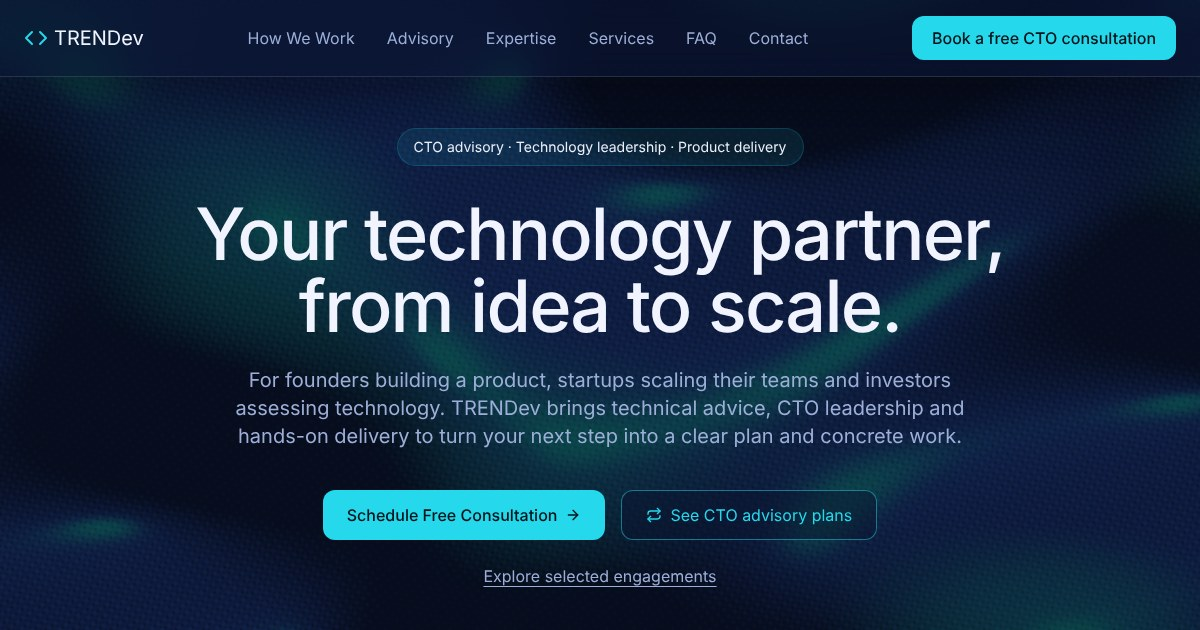
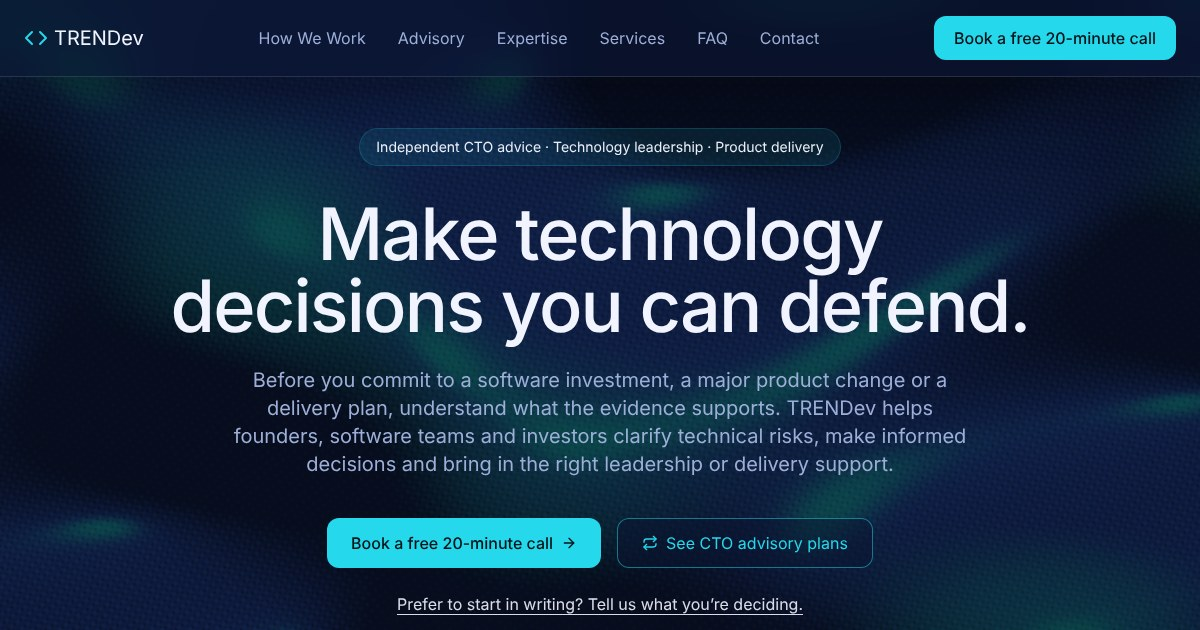
Homepage positioning around decisions + written first contact (Technology Oversight) (#66)
Closes #65.

- Hero, section intros, audience cards and #contact lead with defensible technology decisions for founders, software teams and investors (issue copy A-F).
- Investor card covers engineering-team maturity as observable capabilities, never individual ratings.
- GENERAL_ENQUIRY_EMAIL: a no-meeting written first contact as text links in the hero and #contact, distinct from the delivery enquiry.
- Offers, prices, Terms, service descriptions and checkout unchanged; guards in check-positioning.mjs; og-image regenerated; CLAUDE.md updated.

Claude-Session: https://claude.ai/code/session_018Dnk2oWdFV11BbDxnxuwK2

diff --git a/src/data/positioning.ts b/src/data/positioning.ts
@@ -1,23 +1,27 @@
+import { CONTACT_ADDRESS } from "@/data/content";
+
 /** Buyer-facing copy. Contractual service definitions remain unchanged. */
 export const positioning = {
   hero: {
-    eyebrow: "CTO advisory · Technology leadership · Product delivery",
-    title: "Your technology partner, from idea to scale.",
+    eyebrow: "Independent CTO advice · Technology leadership · Product delivery",
+    title: "Make technology decisions you can defend.",
     description:
-      "For founders building a product, startups scaling their teams and investors assessing technology. TRENDev brings technical advice, CTO leadership and hands-on delivery to turn your next step into a clear plan and concrete work.",
+      "Before you commit to a software investment, a major product change or a delivery plan, understand what the evidence supports. TRENDev helps founders, software teams and investors clarify technical risks, make informed decisions and bring in the right leadership or delivery support.",
     proof:
-      "Engineering and CTO expertise spanning two-squad teams and organisations of approximately 90 engineers.",
+      "Senior CTO and engineering experience, from teams of 10 engineers to organisations of approximately 90 engineers.",
+    /** A plain text link, never a third button competing with the two CTAs. */
+    writtenContactLink: "Prefer to start in writing? Tell us what you’re deciding.",
     workLink: "Explore selected engagements",
   },
   challenges: {
-    title: "Technical support for your next step",
+    title: "Clarity before the next commitment.",
     description:
-      "Launch a product, scale an engineering organisation or assess a technology investment. We help you understand the choices, make a plan and bring in the expertise to move forward.",
+      "Whether you’re building a product, backing a software company or growing an engineering organisation, important technical choices affect budget, delivery and future options. We help you examine the evidence, understand the trade-offs and identify a sensible next step.",
   },
   delivery: {
-    title: "Concrete work behind the expertise",
+    title: "Experience behind the recommendations.",
     description:
-      "Selected engagements illustrating the experience brought to TRENDev missions. Real constraints, specific work and documented scope — with client identities kept confidential.",
+      "Selected engagements show the work behind TRENDev’s judgment: comparing architecture options, structuring engineering teams and navigating delivery constraints. Each example describes a real scope of work, with client identities kept confidential.",
     modelTitle: "Senior leadership. A delivery team shaped around the mission.",
     modelDescription:
       "TRENDev combines a senior technical lead with trusted delivery partners who have worked together repeatedly. We agree the team, responsibilities and delivery milestones around your needs, alongside your own engineers.",
@@ -35,7 +39,7 @@ export const positioning = {
   offers: {
     title: "Four ways to work with us",
     description:
-      "Resolve one technical decision, get recurring advice, or bring in CTO leadership. Each offer has a clear scope, and you can start with any of them.",
+      "One decision to examine, recurring CTO advice, or leadership for a defined technology challenge. Choose the engagement that matches the responsibility you need. No bigger programme is required just to get started.",
     missionsTitle: "Typical scoped missions",
     compareLink: "Compare all four offers",
   },
@@ -50,9 +54,11 @@ export const positioning = {
       "Build a product, modernise a platform or bring a new capability into production. We combine architecture, cloud, AI and software engineering around the work your project needs.",
   },
   cta: {
-    title: "Let’s talk about your next step",
+    title: "What technology decision are you facing?",
     description:
-      "An agency proposal to assess, a migration to unblock, a CTO transition or a technical review before an investment? Start with a free 20-minute call. We clarify your situation, the support and responsibility you need, and whether there is a useful next step. No preparation or commitment required. This is an introductory conversation, not a technical audit. You can also email a project brief directly.",
+      "A supplier proposal to assess, a platform change to plan, a CTO transition or a technical question around an investment? Tell us what you’re trying to decide. Start with a free 20-minute introductory call or write to us directly. No preparation or confidential documents are needed. This is an introductory exchange, not a free technical audit.",
+    /** General written first contact; distinct from the delivery enquiry. */
+    writtenContactLabel: `Prefer email? Write to ${CONTACT_ADDRESS}`,
   },
   advisory: {
     title: "CTO advice and leadership for your business",

diff --git a/src/data/content.ts b/src/data/content.ts
@@ -255,19 +255,19 @@ export const whyChoose: WhyChooseItem[] = [
     icon: Rocket,
     title: "For founders",
     description:
-      "Turn a project into a product. Get support with technical feasibility, architecture, an MVP roadmap and implementation — whether you have an engineering team or are putting one together.",
+      "Bringing a product to market or assessing a supplier’s proposal? Get experienced CTO guidance on feasibility, priorities, architecture and what needs to be verified before you commit. When implementation is needed, TRENDev can help scope and deliver the work separately.",
   },
   {
     icon: Users,
     title: "For growing startups",
     description:
-      "Keep product delivery moving as customers and teams grow. Strengthen your architecture, structure your engineering organisation and bring in leadership or delivery capacity for the next stage.",
+      "Keep architecture, engineering capacity and product commitments aligned as you grow. Challenge roadmap assumptions, clarify ownership and bring in senior CTO advice or operational leadership when the next stage requires it.",
   },
   {
     icon: Compass,
     title: "For investors",
     description:
-      "Get a clear technical view before an investment or during portfolio support. Assess the product, architecture, engineering organisation and delivery risks through technical due diligence, then define practical priorities with the founders.",
+      "Before an investment or while supporting a portfolio company, get an independent technical perspective on the platform, delivery commitments and key dependencies, and on the engineering team’s maturity: role coverage, reliance on key people and how technical decisions are reviewed. Understand what the evidence shows, what remains uncertain and which decisions need attention.",
   },
 ];
 
@@ -535,5 +535,12 @@ export const CONTACT_ADDRESS = "contact@trendev.fr";
 /** Prefilled delivery-project mailto: never routed to subscription checkout. */
 export const DELIVERY_ENQUIRY_EMAIL =
   `mailto:${CONTACT_ADDRESS}?subject=Delivery%20project%20enquiry%20from%20TRENDev%20Website`;
+/**
+ * General written first contact (issue #65): no meeting required, and never a
+ * delivery-only subject. The body is a prompt only; it asks for no documents.
+ */
+export const GENERAL_ENQUIRY_EMAIL =
+  `mailto:${CONTACT_ADDRESS}?subject=${encodeURIComponent("Technology decision or project enquiry")}` +
+  `&body=${encodeURIComponent("What decision or project are you facing, and what would help you move forward?\n\n")}`;
 export const GITHUB_URL = "https://github.com/trendev";
 export const MEDIUM_URL = "https://medium.com/tales-of-a-cto";

diff --git a/src/components/Hero.tsx b/src/components/Hero.tsx
@@ -1,6 +1,7 @@
 import { ArrowRight, Repeat } from "lucide-react";
 
 import { Link } from "@/app/router";
+import { GENERAL_ENQUIRY_EMAIL } from "@/data/content";
 import { ADVISORY_PATH, PRIMARY_CTA_LABEL, SECONDARY_CTA_LABEL } from "@/data/pricing";
 import { positioning } from "@/data/positioning";
 
@@ -42,9 +43,16 @@ export function Hero({ onOpenConsultation }: HeroProps) {
             {SECONDARY_CTA_LABEL}
           </Link>
         </div>
-        {/* Deliberately a text link, not a third button: the two CTAs above are
-            the commercial paths and must not compete with a portfolio view. */}
-        <div className="mt-5 sm:mt-6 px-4">
+        {/* Deliberately text links, not more buttons: the two CTAs above are
+            the commercial paths. The written contact (issue #65) needs no
+            meeting; the work link leads to the anonymised cases. */}
+        <div className="mt-5 sm:mt-6 px-4 flex flex-col items-center gap-3">
+          <a
+            href={GENERAL_ENQUIRY_EMAIL}
+            className="text-sm sm:text-base text-foreground/90 hover:text-accent transition-colors underline underline-offset-4"
+          >
+            {positioning.hero.writtenContactLink}
+          </a>
           <Link
             href="/#how-we-deliver"
             className="text-sm sm:text-base text-muted-foreground hover:text-foreground transition-colors underline underline-offset-4"

diff --git a/src/components/Cta.tsx b/src/components/Cta.tsx
@@ -6,6 +6,7 @@ import {
   CALENDLY_URL,
   DELIVERY_CTA_LABEL,
   DELIVERY_ENQUIRY_EMAIL,
+  GENERAL_ENQUIRY_EMAIL,
 } from "@/data/content";
 import {
   ADVISORY_PATH,
@@ -49,6 +50,17 @@ export function Cta() {
               {DELIVERY_CTA_LABEL}
             </a>
           </div>
+          {/* General written first contact (issue #65): a text link, so it never
+              competes with the buttons, and it shows the bare address as the
+              fallback when no mail client opens. Not the delivery enquiry. */}
+          <p className="mt-6 text-sm sm:text-base">
+            <a
+              href={GENERAL_ENQUIRY_EMAIL}
+              className="text-foreground/90 hover:text-accent transition-colors underline underline-offset-4"
+            >
+              {positioning.cta.writtenContactLabel}
+            </a>
+          </p>
         </div>
       </div>
     </section>

diff --git a/src/data/siteMeta.ts b/src/data/siteMeta.ts
@@ -27,7 +27,7 @@ export const siteMeta = {
   /** The social card copy differs from <title>/description on purpose. */
   ogTitle: "CTO Advisory, Technical Due Diligence & Delivery | TRENDev",
   ogDescription:
-    "Your technology partner, from idea to scale. Technical advice, CTO leadership and delivery for founders, growing startups and investors.",
+    "Make technology decisions you can defend. Independent CTO advice, leadership and delivery for founders, software teams and investors.",
   /**
    * Google ignores meta keywords (Bing weighs them, lightly). Keep them to
    * services the site actually names, never terms it does not substantiate.

diff --git a/CLAUDE.md b/CLAUDE.md
@@ -113,6 +113,7 @@ content scripts; deploy.yml runs it before the build. No linter is configured.
     the Decision Review, by need; Fractional CTO carries `missions`),
     deliveryPrinciples, adviceSafeguards, proofCases) plus `navLinks`,
     `legalLinks`, `CALENDLY_URL`, `DELIVERY_ENQUIRY_EMAIL`,
+    `GENERAL_ENQUIRY_EMAIL` (the written first contact, issue #65),
     `DELIVERY_CTA_LABEL`, `GITHUB_URL`, `MEDIUM_URL` (the "Tales of a CTO"
     publication, issue #52).
     **`proofCases` are anonymised and source-grounded only**: never name a
@@ -262,8 +263,9 @@ content scripts; deploy.yml runs it before the build. No linter is configured.
   everything else points at `/`. `BackLink` is `print:hidden`, so it never
   reaches the Terms PDF.
 - **The Hero's commercial CTAs come first.** Two buttons (consultation +
-  advisory plans) carry the hero; "Explore selected engagements" is a subdued text link
-  underneath and must not be promoted back to a third button competing with
+  advisory plans) carry the hero; the written-contact link (issue #65) and
+  "Explore selected engagements" are subdued text links
+  underneath and must not be promoted to a third button competing with
   them. It points to the anonymised cases; the engineering-resources modal
   remains available from `HowWeDeliver`.
 - **Two funnels, two buttons — never merge them.** Booking a consultation and
@@ -280,6 +282,23 @@ content scripts; deploy.yml runs it before the build. No linter is configured.
   (`DELIVERY_CTA_LABEL` → `DELIVERY_ENQUIRY_EMAIL`, a prefilled mailto) is for
   tailored implementation work. It is not a tier, has no price and must never
   route to Stripe checkout; advisory is never a prerequisite for it.
+- **A fourth path: written first contact, no meeting required** (issue #65).
+  "Prefer to start in writing? Tell us what you're deciding." (hero) and
+  "Prefer email? Write to contact@trendev.fr" (`#contact`, showing the bare
+  address as the fallback) both use `GENERAL_ENQUIRY_EMAIL`: a general subject,
+  never the delivery one, and a prompt that asks for no documents. They stay
+  text links, never a form, backend or CRM (the future intake app is a
+  separate issue). An email does not replace the free call required before an
+  Advisor/Advisor+ subscription. `check-positioning.mjs` guards all of this.
+- **Technology Oversight is positioning, not an offer.** It is how the existing
+  offers are explained to investors (independent CTO judgment on evidence,
+  risks and decisions). Never add a fifth card, a portfolio retainer, an
+  "AI-powered audit", continuous monitoring or a promised speed gain. The hero
+  leads with decisions ("Make technology decisions you can defend.") and keeps
+  founders and software teams as explicitly welcome as investors.
+  Team maturity (investor card) is described through observable capabilities:
+  role coverage, reliance on key people, review practices. Never individual
+  ratings, a verdict from commit counts, or a judgement on the incumbent CTO.
 - **TRENDev advises, leads and delivers.** The Advisor exclusions ("TRENDev
   advises, your team decides and executes", no hands-on implementation) are
   the subscriptions' scope, frozen in the Terms annexes — not a firm-wide
